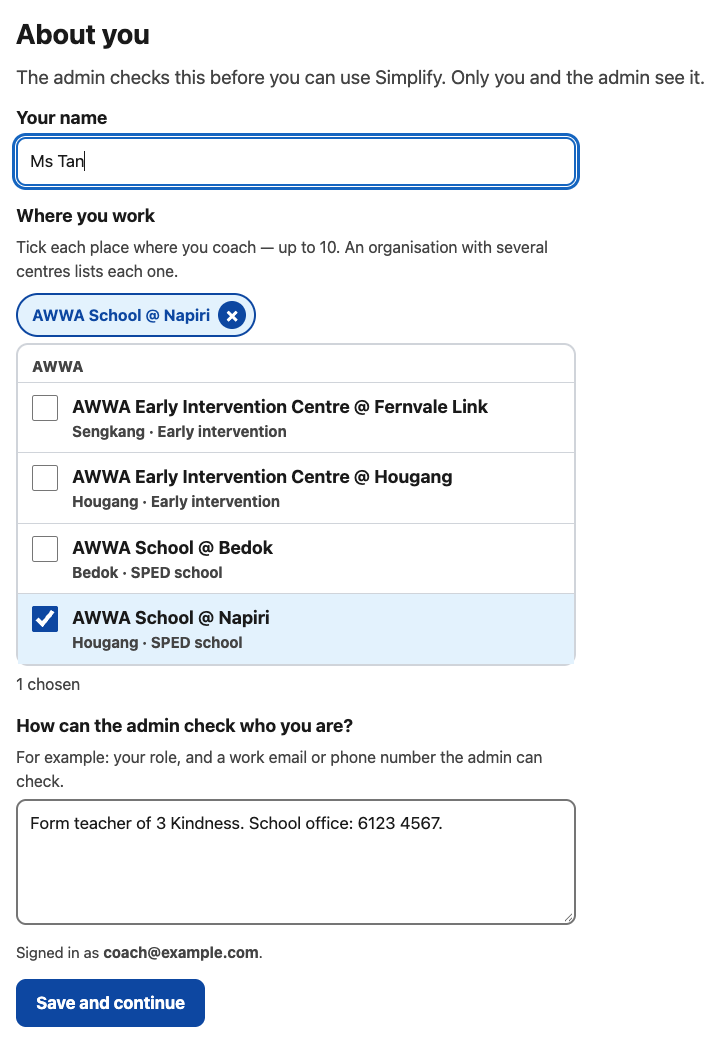
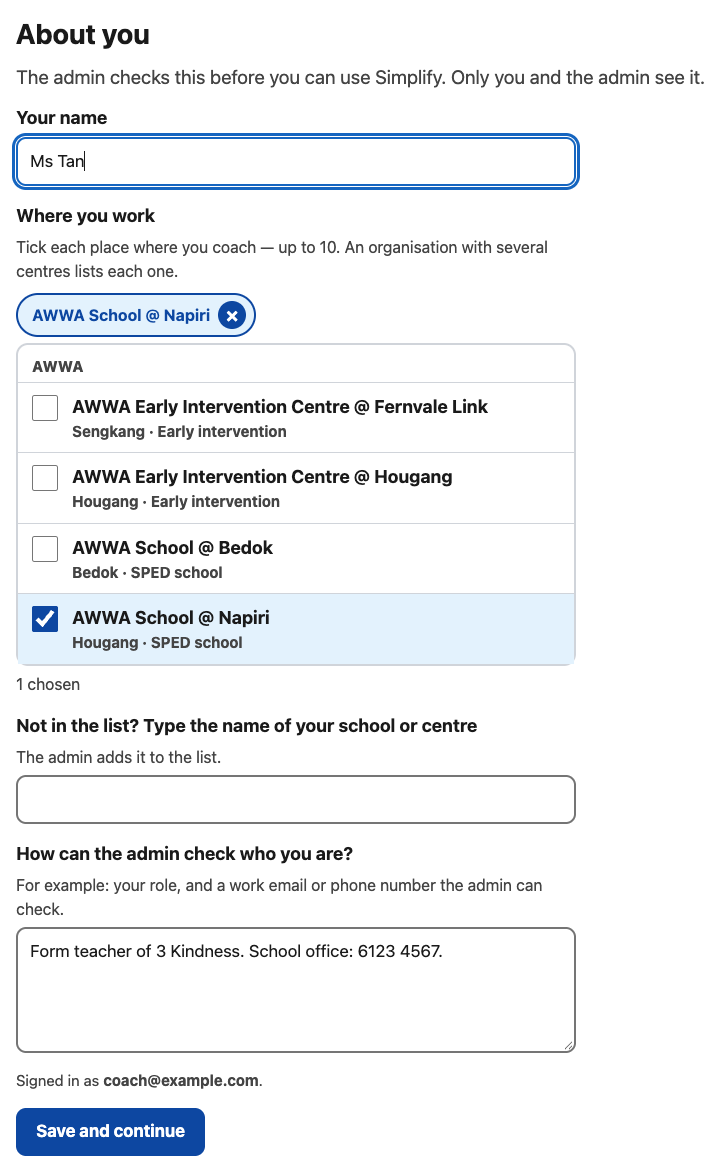
guide: the admin's tabs, how you checked, the history, a school not in the list, asking again

diff --git a/public/coach/guide.html b/public/coach/guide.html
@@ -139,21 +139,23 @@
       <p>Under <strong>Where you work</strong>, tick each place where you
         coach, for example <em>AWWA School @ Napiri</em> — up to 10. The
         places you ticked show above the list; tap one to take it off. If
-        your place isn't there, tell the admin in the note.</p>
+        your school or centre isn't in the list, type its name under the
+        list, in <strong>Not in the list?</strong> The admin adds it to the
+        list and puts it on your About you.</p>
       <p>Only you and the admin see About you. Change it later from
         <strong>About you</strong> at the top. Signed up before Simplify
         asked where you work? About you opens first, once: tick your places
         and save.</p>
       <figure>
-        <a href="/coach/img/guide/about-you.png"><img src="/coach/img/guide/about-you.png" width="720" height="1043" loading="lazy"
-          alt="About you: Your name; Where you work, a list of AWWA places with AWWA School @ Napiri ticked and shown above the list; How can the admin check who you are; Save and continue."></a>
+        <a href="/coach/img/guide/about-you.png"><img src="/coach/img/guide/about-you.png" width="720" height="1172" loading="lazy"
+          alt="About you: Your name; Where you work, a list of AWWA places with AWWA School @ Napiri ticked and shown above the list; Not in the list? Type the name of your school or centre; How can the admin check who you are; Save and continue."></a>
         <figcaption>About you: who you are and where you work</figcaption>
       </figure>
 
       <h3>Wait for the admin</h3>
       <p>Before you can make a class, write a page or add a picture, the
-        admin checks who you are and where you work — for example by
-        calling your school. Until then you see <strong>Waiting for
+        admin checks who you are and where you work — for example, they may
+        have seen you teach at your school, or they call it. Until then you see <strong>Waiting for
         approval</strong>. You can close the page: when the admin approves
         you, it changes to <strong>My classes</strong> by itself, or the next
         time you sign in.</p>
@@ -164,8 +166,11 @@
       </figure>
       <ul>
         <li>If the admin does not approve you, you see <strong>Not
-          approved</strong>. Contact the admin if you think it is a
-          mistake.</li>
+          approved</strong>, with what the admin wants you to know (if they
+          wrote something). Change About you, then tap <strong>Ask the admin
+          again</strong>: you are back to <em>Waiting for approval</em>.</li>
+        <li>Approved, but your school isn't in the list yet? You can make a
+          class there once the admin has added it.</li>
         <li>If you later change where you work, you stay approved. The admin
           sees that you changed it.</li>
       </ul>
@@ -695,51 +700,87 @@
       <h2 id="admin-h"><span class="num">11.</span> For the admin
         <a class="here" href="#admin" aria-label="Link to this section">🔗</a></h2>
 
-      <p>The admin sees <strong>Admin</strong> at the top of the coach app.
-        Admins are set up by the owner of Simplify, not in the app. An admin
-        approves their own About you like anyone else's.</p>
+      <p>The admin sees <strong>Admin</strong> at the top of the coach app,
+        with a number when someone is waiting. Admins sign in with Google,
+        like coaches, and are set up by the owner of Simplify in the
+        database — never in the app. An admin approves their own About you
+        like anyone else's.</p>
+      <p>The Admin screen has six tabs: <strong>Waiting</strong>,
+        <strong>Coaches</strong>, <strong>Classes</strong>,
+        <strong>Institutions</strong>, <strong>History</strong> and
+        <strong>Limits</strong>.</p>
 
-      <h3>Coaches waiting for approval</h3>
-      <p>First on the screen: everyone who has filled in About you and is
-        waiting, with their name, email, where they work, how to check them,
-        and when they asked. <strong>Check before approving</strong>, for
-        example by calling the school or centre: until you approve someone,
+      <h3>Waiting: approving coaches</h3>
+      <p>Everyone who has filled in About you and is waiting, with their
+        name, email, where they work, how to check them, and when they asked.
+        <strong>Check before approving</strong>: until you approve someone,
         they can't make classes, write pages, add pictures or use the AI.</p>
       <ul>
-        <li><strong>Approve</strong>: they can use Simplify at once — their
-          own screen changes to My classes by itself.</li>
-        <li><strong>Decline</strong>: they see <em>Not approved</em> and are
-          asked to contact you.</li>
-        <li>Both have <strong>Undo</strong> on the message.</li>
+        <li><strong>Approve</strong> asks <em>How did you check them?</em>
+          Write it down — at least 10 letters, for example <em>Seen taking
+          classes at AWWA School @ Napiri</em>. It is kept in the history
+          with your name and email; the coach doesn't see it. Then they can
+          use Simplify at once: their own screen changes to My classes by
+          itself.</li>
+        <li><strong>Decline</strong> asks what they should know (if you
+          like), for example <em>Please add a work email I can check</em>.
+          The coach sees it, can change About you and ask again; they then
+          show as <em>Asked again</em>.</li>
+        <li>Both have <strong>Undo</strong> on the message; Undo brings your
+          note back.</li>
+        <li><strong>Not in the list</strong>: the school the coach typed.
+          <strong>Add it to the list</strong> fills in the name for you; add
+          the organisation and save — it goes on their About you at once.
+          If it is already in the list under another name,
+          <strong>It's already listed</strong> lets you choose it.</li>
       </ul>
+      <figure>
+        <a href="/coach/img/guide/admin-requests.png"><img src="/coach/img/guide/admin-requests.png" width="880" height="1219" loading="lazy"
+          alt="Admin, Waiting tab: Coaches waiting for approval (1): Mr Lim, with email, works at AWWA School @ Napiri, how to check them and when asked; below, How did you check them? filled in with Seen taking classes at AWWA School @ Napiri on Monday, Approve and Cancel. Requests to join a class (1): Join K7M-3RQ-P9T (3 Kindness), with the coach, where they work, where the class is, the class's coaches, how to check them, their note, Approve and Decline."></a>
+        <figcaption>Approving a coach: how you checked them</figcaption>
+      </figure>
 
-      <h3>Requests to join a class</h3>
+      <h3>Waiting: requests to join a class</h3>
       <p>A coach who works with a colleague asks to join the colleague's
         class. Each request shows the class, the coach, where they work,
-        where the class is, and their note. Approve a coach for a class only
-        after checking they really coach it. <strong>Approve</strong>: they
-        can work on that class at once; there is no Undo — to take it back,
-        suspend the coach. <strong>Decline</strong>: Undo on the message.</p>
-      <figure>
-        <a href="/coach/img/guide/admin-requests.png"><img src="/coach/img/guide/admin-requests.png" width="880" height="916" loading="lazy"
-          alt="Admin: Coaches waiting for approval (1), with a line saying approve only after checking who they are and where they work: Mr Lim, with email, works at AWWA School @ Napiri, how to check them, when asked, Approve and Decline. Requests to join a class (1): Join K7M-3RQ-P9T (3 Kindness), with the coach, where they work, where the class is, how to check them, their note, Approve and Decline."></a>
-        <figcaption>Coaches waiting for approval, and a request to join a class</figcaption>
-      </figure>
+        where the class is, its coaches, and their note. Approve only after
+        checking they really coach it: <strong>Approve</strong> asks how you
+        checked (for example <em>Seen teaching 3 Kindness with Ms Tan</em>),
+        and they can work on that class at once. There is no Undo — take
+        them off the class under Classes instead. <strong>Decline</strong>:
+        Undo on the message.</p>
 
-      <h3>Coaches, classes and limits</h3>
+      <h3>Coaches</h3>
       <figure>
-        <a href="/coach/img/guide/admin-classes.png"><img src="/coach/img/guide/admin-classes.png" width="880" height="1110" loading="lazy"
-          alt="Admin: Coaches — Ms Tan and Mr Lim, both Approved, each with email, where they work, how to check them, classes, when decided and Suspend; Mr Lim's places are marked Changed, after approval. Classes: 3 Kindness with its code, its institution AWWA School @ Napiri, what learners see, its coaches, Suspend the class and Take the page down. Monthly limits: AI requests per coach per month 200, videos per coach per month 5, Save the limits."></a>
-        <figcaption>Coaches, classes and monthly limits</figcaption>
+        <a href="/coach/img/guide/admin-coaches.png"><img src="/coach/img/guide/admin-coaches.png" width="840" height="508" loading="lazy"
+          alt="Admin, Coaches tab: Mr Lim, Approved, works at AWWA School @ Napiri and @ Bedok, marked Changed Thu 4:20 pm, after approval; Approved by Ms Tan, 27 Aug, Checked: Seen taking classes at AWWA School @ Napiri; Suspend and History. Ms Kaur, Not approved, nothing from the list, Not in the list: Rainbow Centre Yishun Park School with Add it to the list and It's already listed; Declined by Ms Tan, Told them: Please add a work email I can check; Approve and History."></a>
+        <figcaption>Who approved each coach, and how they checked</figcaption>
       </figure>
       <ul>
-        <li><strong>Coaches</strong>: each shows whether they are approved,
-          waiting or not approved. <em>Changed …, after approval</em> means
-          they changed where they work after you approved them. A coach you
-          declined can be approved later.</li>
-        <li><strong>Suspend</strong> a coach: they can't change anything in
-          any class, or use the AI or videos. <strong>Let back in</strong>
-          undoes it.</li>
+        <li>Each coach shows whether they are approved, waiting or not
+          approved, and <strong>Approved by</strong> (or Declined by): which
+          admin, when, and how they checked. Coaches approved before the
+          history began say so. <em>Changed …, after approval</em> means they
+          changed where they work after you approved them.</li>
+        <li><strong>Suspend</strong> asks why (if you like, for the
+          history): they can't change anything in any class, or use the AI or
+          videos. <strong>Let back in</strong> undoes it.</li>
+        <li><strong>History</strong> shows everything admins did about that
+          coach. A coach you declined can be approved later.</li>
+        <li>More than 8 coaches: a search box finds one by name, email,
+          school or status.</li>
+      </ul>
+
+      <h3>Classes</h3>
+      <figure>
+        <a href="/coach/img/guide/admin-classes.png"><img src="/coach/img/guide/admin-classes.png" width="880" height="468" loading="lazy"
+          alt="Admin, Classes tab: 3 Kindness with its code K7M-3RQ-P9T, its institution AWWA School @ Napiri, what learners see, its coaches Ms Tan and Mr Lim each with Take off, Suspend the class and Take the page down."></a>
+        <figcaption>A class, its coaches, and what learners see</figcaption>
+      </figure>
+      <ul>
+        <li><strong>Take off</strong> beside a coach: they can no longer
+          work on that class (for example, they moved school). Undo on the
+          message.</li>
         <li><strong>Take the page down</strong>: learners see nothing from the
           class, at their device's next check. Undo on the message. A coach of
           the class can publish again, so if the coach's account is the
@@ -747,10 +788,6 @@
         <li><strong>Suspend the class</strong>: learners' devices stop showing
           its page, and its coaches can read but not change it. <strong>Make
           it active again</strong> undoes it.</li>
-        <li><strong>Monthly limits</strong>: the same for every coach,
-          counted in Singapore months. AI requests (Write with AI and
-          video planning) and videos, each about US$0.80. Save the limits;
-          Undo on the message.</li>
         <li>A class code that got out: the coach makes a new class, then you
           suspend the old one once the devices have the new code.</li>
       </ul>
@@ -759,8 +796,8 @@
       <p>The places coaches choose from, grouped by organisation — one entry
         for each centre.</p>
       <figure>
-        <a href="/coach/img/guide/admin-institutions.png"><img src="/coach/img/guide/admin-institutions.png" width="880" height="974" loading="lazy"
-          alt="Admin: Institutions (4 in the list). The Add an institution form with Name AWWA Home and Day Activity Centre, Organisation AWWA, Type Day activity centre, Area Pasir Ris, Add and Cancel. Below, the AWWA places, each with its area and type, Edit and Retire."></a>
+        <a href="/coach/img/guide/admin-institutions.png"><img src="/coach/img/guide/admin-institutions.png" width="880" height="1073" loading="lazy"
+          alt="Admin, Institutions tab: Institutions (4 in the list). The Add an institution form with Name AWWA Home and Day Activity Centre, Organisation AWWA, Type Day activity centre, Area Pasir Ris, Add and Cancel. Below, the AWWA places, each with its area and type, Edit and Retire."></a>
         <figcaption>The institutions coaches choose from</figcaption>
       </figure>
       <ul>
@@ -770,7 +807,25 @@
         <li><strong>Retire</strong> a place that has closed: coaches no
           longer see it, but classes and coaches that chose it are not
           affected. <strong>Bring back</strong> undoes it.</li>
+        <li>When a coach has typed a school that isn't in the list, a note
+          here says so and takes you to their card.</li>
       </ul>
+
+      <h3>History</h3>
+      <figure>
+        <a href="/coach/img/guide/admin-history.png"><img src="/coach/img/guide/admin-history.png" width="880" height="728" loading="lazy"
+          alt="Admin, History tab: a search box, then newest first: Ms Tan approved Ms Kaur as a coach, How they checked: Seen taking classes at Rainbow Centre Yishun Park; Ms Tan added Rainbow Centre Yishun Park School to the institutions (named by Ms Kaur); Ms Tan declined Ms Kaur, Told the coach: Please add a work email I can check; Ms Tan added Ms Wong to 3 Kindness, as they asked; Ms Tan approved Mr Lim as a coach. Each with when and the admin's email."></a>
+        <figcaption>Who did what, when, and how they checked</figcaption>
+      </figure>
+      <p>Every approval and change any admin makes, newest first: which
+        admin (their name and Google email), what, when, and the note. Search
+        it by a coach, an admin, a class or any word. Nobody can change or
+        delete it from the app.</p>
+
+      <h3>Limits</h3>
+      <p>The same for every coach, counted in Singapore months: AI requests
+        (Write with AI and video planning) and videos, each about US$0.80.
+        Save the limits; Undo on the message.</p>
       <p class="to-top"><a href="#contents">Back to contents</a></p>
     </section>
 
@@ -788,6 +843,7 @@
           <tbody>
             <tr><td>Your sign-in (Google account email and name)</td><td>Firebase Authentication (Google), in the US</td><td>You and the admin</td></tr>
             <tr><td>About you (including where you work), and your requests</td><td>Singapore</td><td>You and the admin</td></tr>
+            <tr><td>The admin history: who approved or declined you, when, and the admin's note on how they checked</td><td>Singapore</td><td>Admins only (a decline's message is shown to you)</td></tr>
             <tr><td>Draft pages, picture words, video plans</td><td>Singapore</td><td>The class's coaches and the admin</td></tr>
             <tr><td>The published page</td><td>Singapore</td><td><strong>Anyone with the class code</strong></td></tr>
             <tr><td>Pictures, and approved videos</td><td>Singapore</td><td>Anyone with the exact address, which a published page gives</td></tr>
